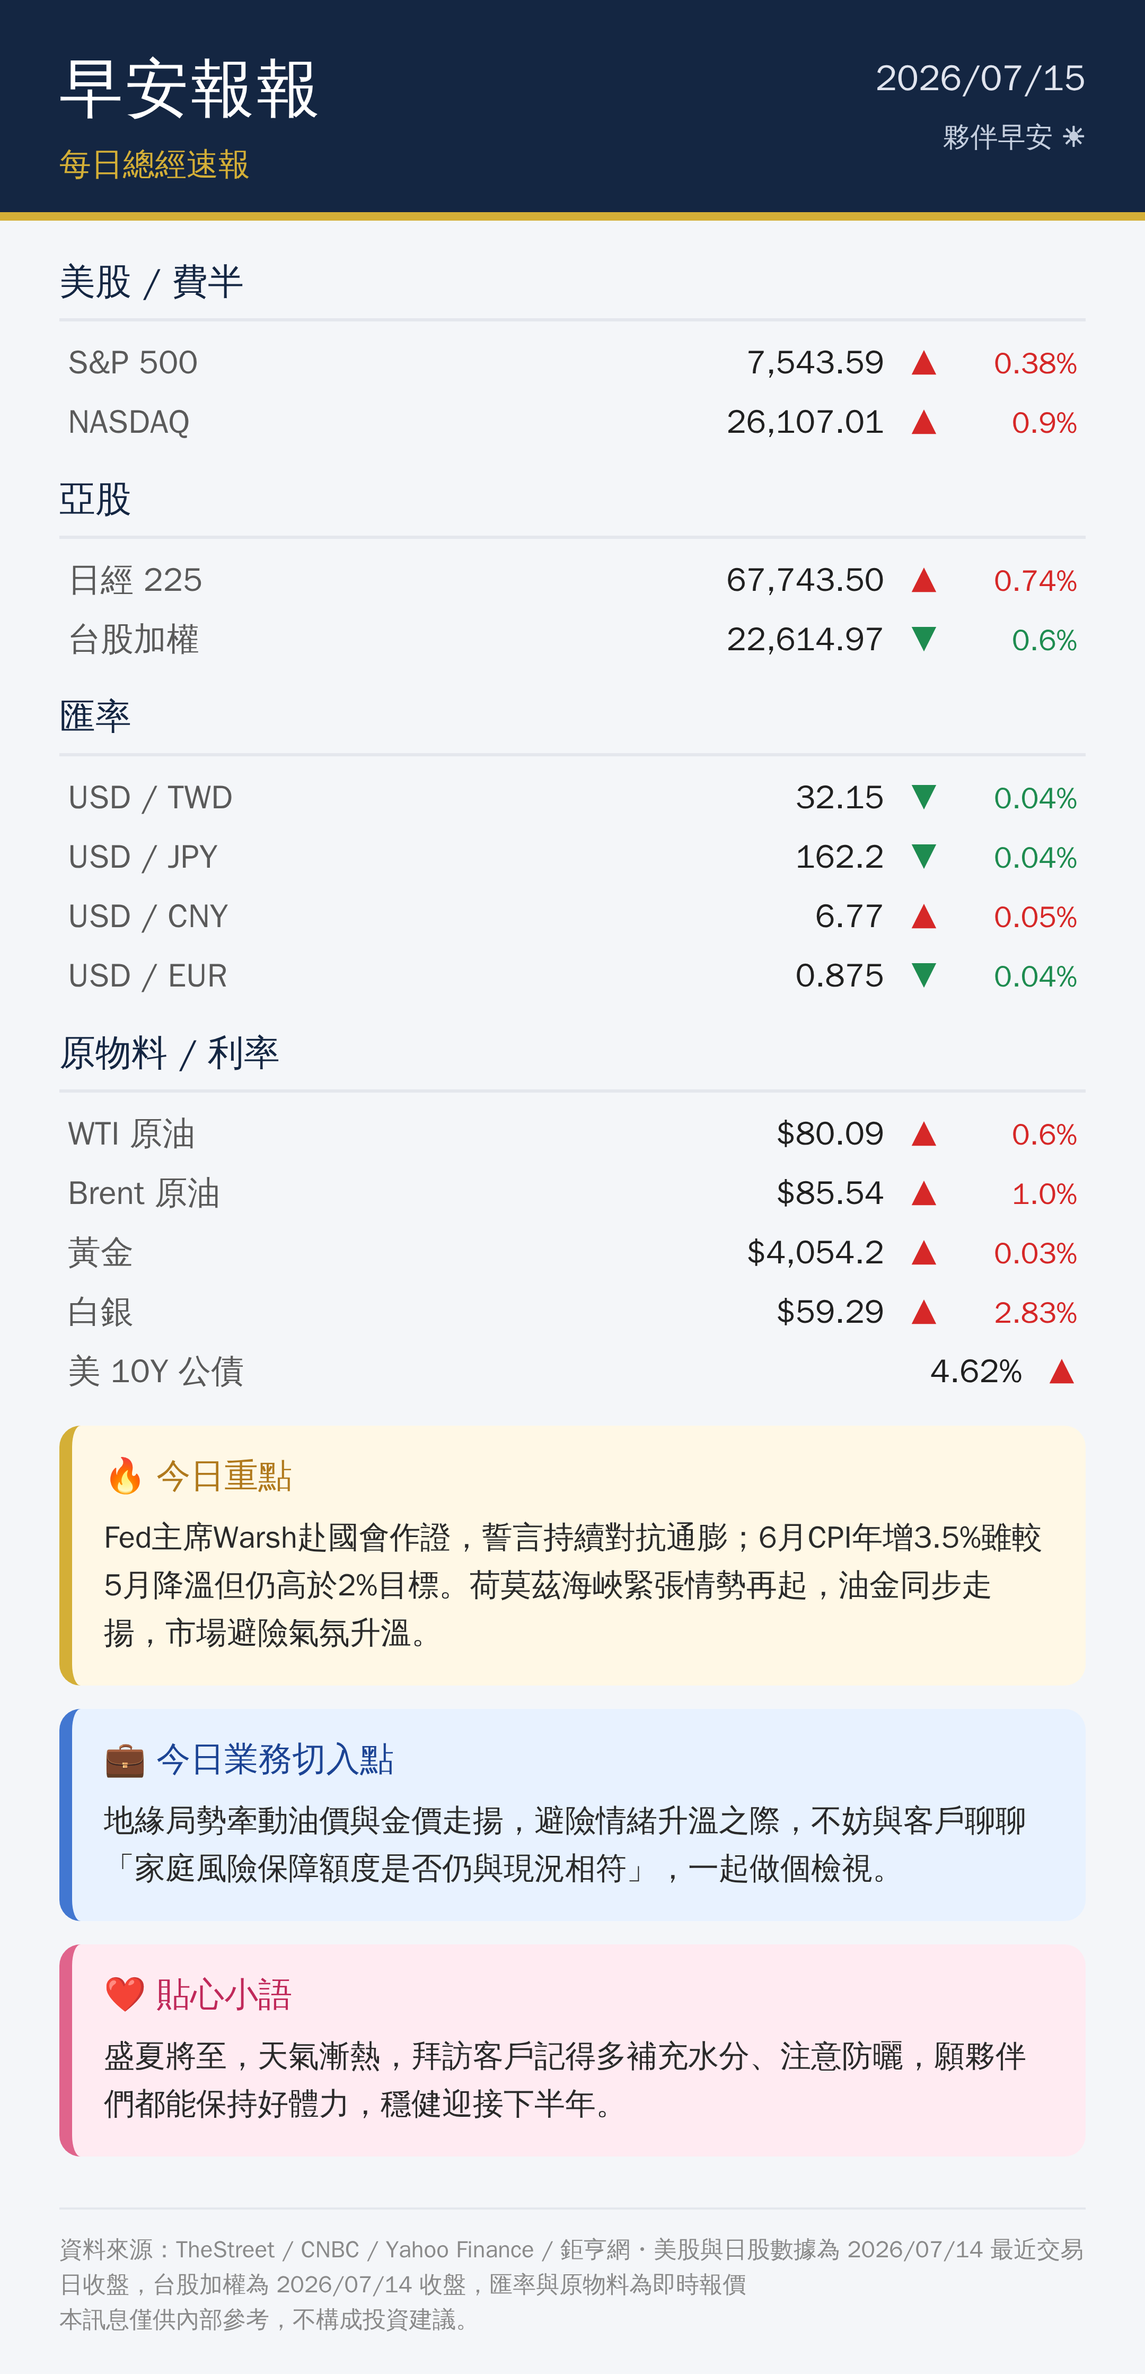
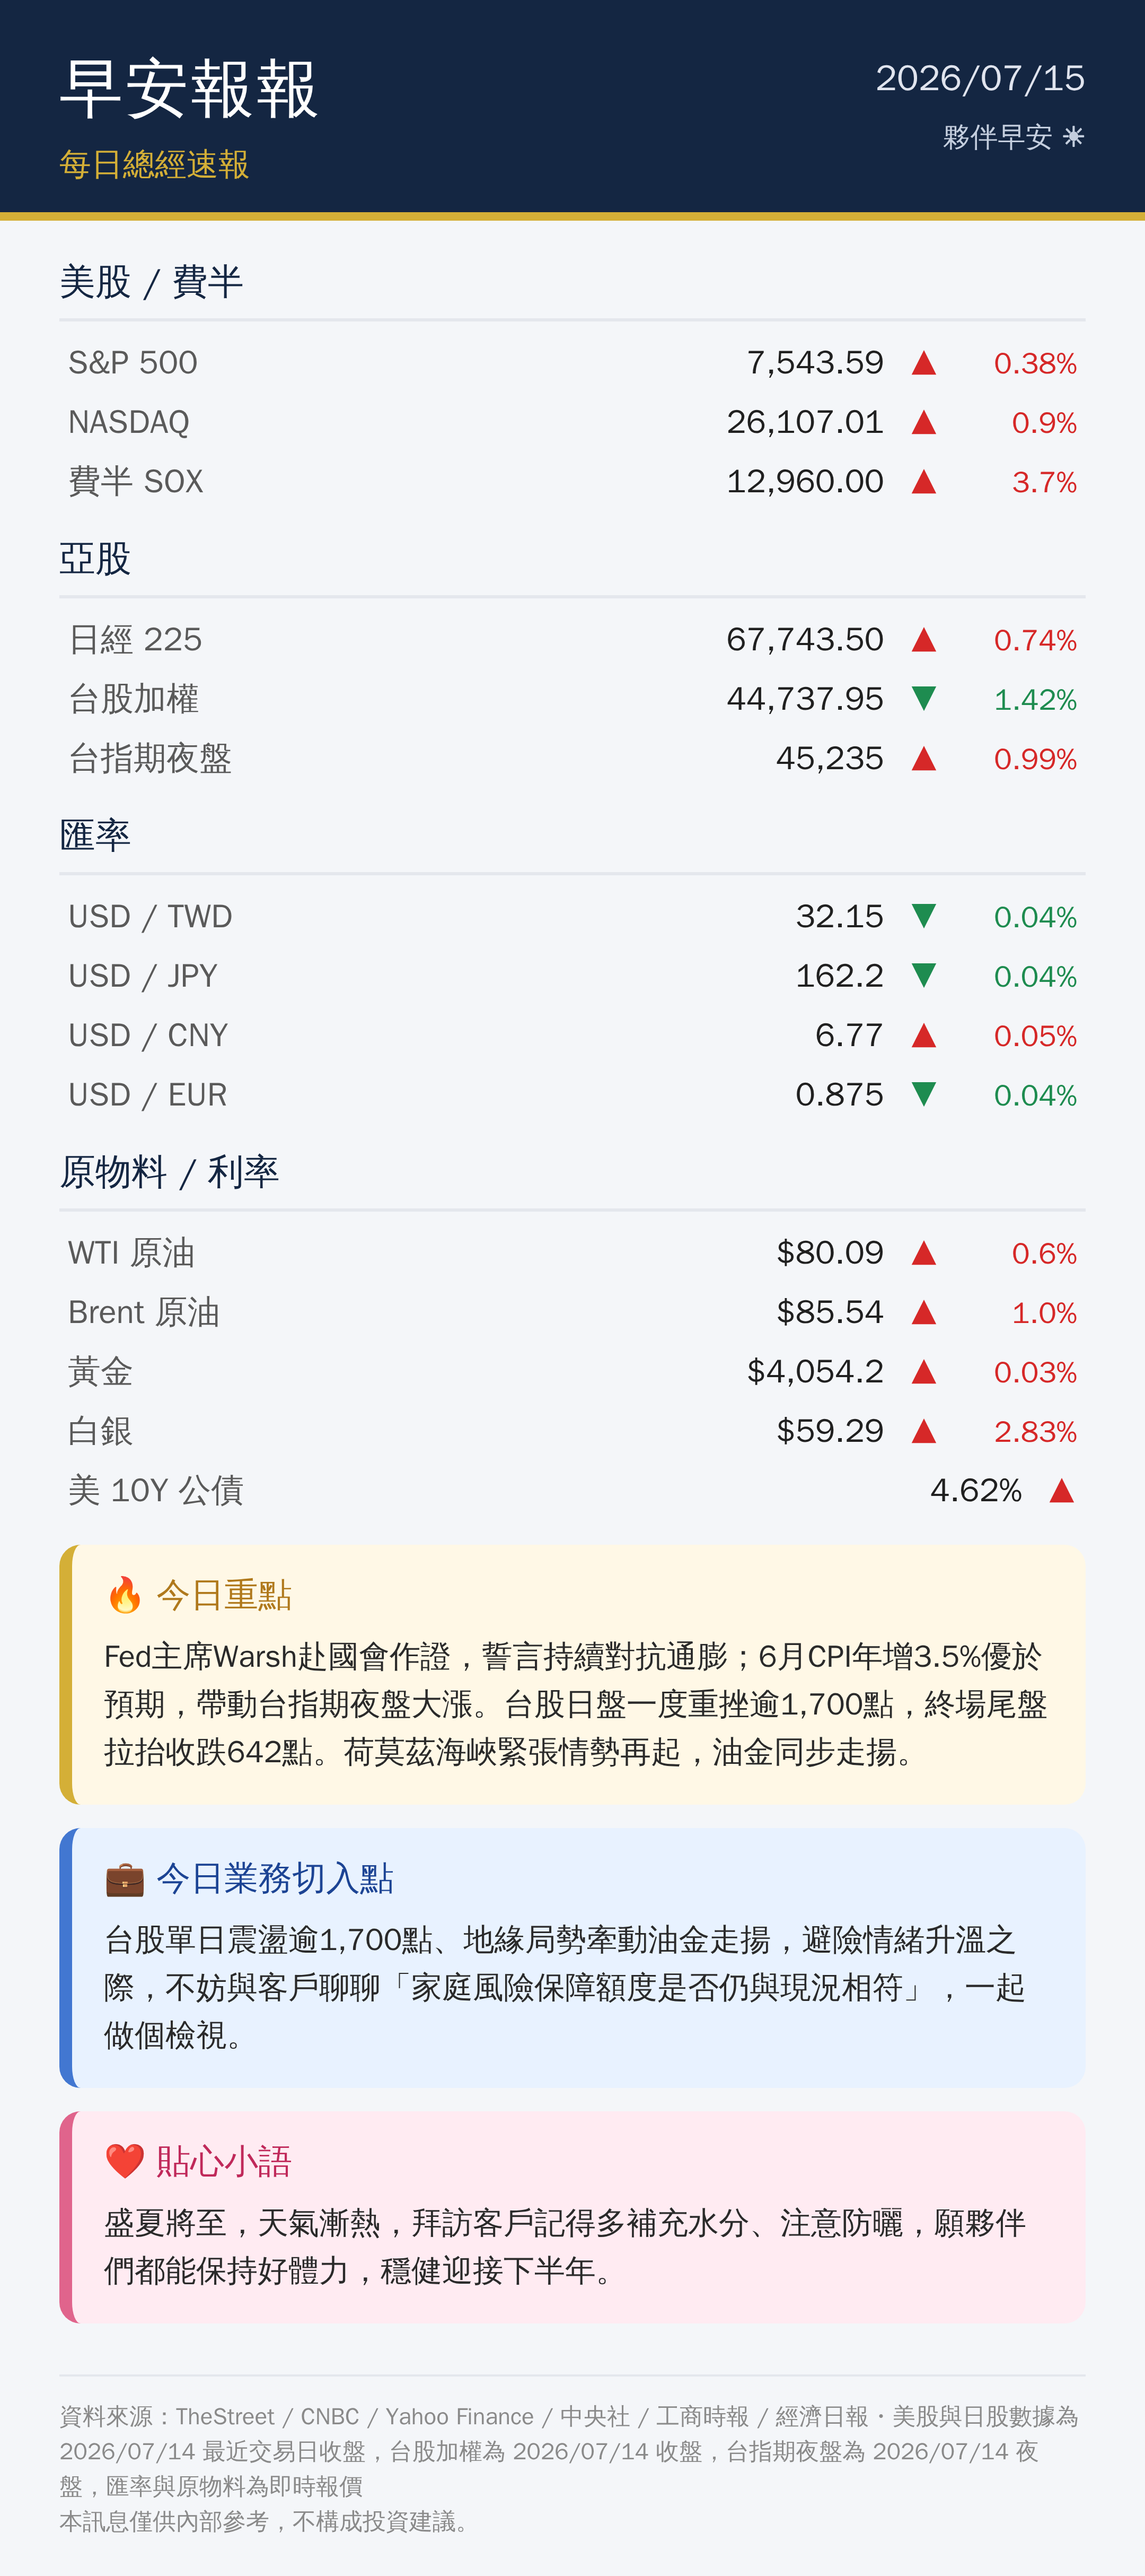
Fix 2026-07-15 report: correct TAIEX close, add SOX and night session (#14)
* Daily macro report 2026-07-15

* Fix 2026-07-15 report: correct TAIEX close, add SOX and night session

---------

diff --git a/reports/2026-07-15/card.html b/reports/2026-07-15/card.html
@@ -43,6 +43,6 @@
     <div class="brand-sub">每日總經速報</div>
     <div class="hdr-right"><div class="hdr-date">2026/07/15</div><div class="hdr-hi">夥伴早安 ☀</div></div>
   </div>
-  <div class="body"><div class="sec"><div class="sec-title">美股 / 費半</div><div class="row"><span class="label">S&amp;P 500</span><span class="val">7,543.59</span><span class="arr" style="color:#d62828">▲</span><span class="pct" style="color:#d62828">0.38%</span></div><div class="row"><span class="label">NASDAQ</span><span class="val">26,107.01</span><span class="arr" style="color:#d62828">▲</span><span class="pct" style="color:#d62828">0.9%</span></div></div><div class="sec"><div class="sec-title">亞股</div><div class="row"><span class="label">日經 225</span><span class="val">67,743.50</span><span class="arr" style="color:#d62828">▲</span><span class="pct" style="color:#d62828">0.74%</span></div><div class="row"><span class="label">台股加權</span><span class="val">22,614.97</span><span class="arr" style="color:#1e8c50">▼</span><span class="pct" style="color:#1e8c50">0.6%</span></div></div><div class="sec"><div class="sec-title">匯率</div><div class="row"><span class="label">USD / TWD</span><span class="val">32.15</span><span class="arr" style="color:#1e8c50">▼</span><span class="pct" style="color:#1e8c50">0.04%</span></div><div class="row"><span class="label">USD / JPY</span><span class="val">162.2</span><span class="arr" style="color:#1e8c50">▼</span><span class="pct" style="color:#1e8c50">0.04%</span></div><div class="row"><span class="label">USD / CNY</span><span class="val">6.77</span><span class="arr" style="color:#d62828">▲</span><span class="pct" style="color:#d62828">0.05%</span></div><div class="row"><span class="label">USD / EUR</span><span class="val">0.875</span><span class="arr" style="color:#1e8c50">▼</span><span class="pct" style="color:#1e8c50">0.04%</span></div></div><div class="sec"><div class="sec-title">原物料 / 利率</div><div class="row"><span class="label">WTI 原油</span><span class="val">$80.09</span><span class="arr" style="color:#d62828">▲</span><span class="pct" style="color:#d62828">0.6%</span></div><div class="row"><span class="label">Brent 原油</span><span class="val">$85.54</span><span class="arr" style="color:#d62828">▲</span><span class="pct" style="color:#d62828">1.0%</span></div><div class="row"><span class="label">黃金</span><span class="val">$4,054.2</span><span class="arr" style="color:#d62828">▲</span><span class="pct" style="color:#d62828">0.03%</span></div><div class="row"><span class="label">白銀</span><span class="val">$59.29</span><span class="arr" style="color:#d62828">▲</span><span class="pct" style="color:#d62828">2.83%</span></div><div class="row"><span class="label">美 10Y 公債</span><span class="val">4.62%</span><span class="arr" style="color:#d62828">▲</span></div></div><div class="box box-gold"><div class="box-title">🔥 今日重點</div><div class="box-body">Fed主席Warsh赴國會作證，誓言持續對抗通膨；6月CPI年增3.5%雖較5月降溫但仍高於2%目標。荷莫茲海峽緊張情勢再起，油金同步走揚，市場避險氣氛升溫。</div></div><div class="box box-blue"><div class="box-title">💼 今日業務切入點</div><div class="box-body">地緣局勢牽動油價與金價走揚，避險情緒升溫之際，不妨與客戶聊聊「家庭風險保障額度是否仍與現況相符」，一起做個檢視。</div></div><div class="box box-pink"><div class="box-title">❤ 貼心小語</div><div class="box-body">盛夏將至，天氣漸熱，拜訪客戶記得多補充水分、注意防曬，願夥伴們都能保持好體力，穩健迎接下半年。</div></div></div>
-  <div class="foot">資料來源：TheStreet / CNBC / Yahoo Finance / 鉅亨網・美股與日股數據為 2026/07/14 最近交易日收盤，台股加權為 2026/07/14 收盤，匯率與原物料為即時報價<br>本訊息僅供內部參考，不構成投資建議。</div>
+  <div class="body"><div class="sec"><div class="sec-title">美股 / 費半</div><div class="row"><span class="label">S&amp;P 500</span><span class="val">7,543.59</span><span class="arr" style="color:#d62828">▲</span><span class="pct" style="color:#d62828">0.38%</span></div><div class="row"><span class="label">NASDAQ</span><span class="val">26,107.01</span><span class="arr" style="color:#d62828">▲</span><span class="pct" style="color:#d62828">0.9%</span></div><div class="row"><span class="label">費半 SOX</span><span class="val">12,960.00</span><span class="arr" style="color:#d62828">▲</span><span class="pct" style="color:#d62828">3.7%</span></div></div><div class="sec"><div class="sec-title">亞股</div><div class="row"><span class="label">日經 225</span><span class="val">67,743.50</span><span class="arr" style="color:#d62828">▲</span><span class="pct" style="color:#d62828">0.74%</span></div><div class="row"><span class="label">台股加權</span><span class="val">44,737.95</span><span class="arr" style="color:#1e8c50">▼</span><span class="pct" style="color:#1e8c50">1.42%</span></div><div class="row"><span class="label">台指期夜盤</span><span class="val">45,235</span><span class="arr" style="color:#d62828">▲</span><span class="pct" style="color:#d62828">0.99%</span></div></div><div class="sec"><div class="sec-title">匯率</div><div class="row"><span class="label">USD / TWD</span><span class="val">32.15</span><span class="arr" style="color:#1e8c50">▼</span><span class="pct" style="color:#1e8c50">0.04%</span></div><div class="row"><span class="label">USD / JPY</span><span class="val">162.2</span><span class="arr" style="color:#1e8c50">▼</span><span class="pct" style="color:#1e8c50">0.04%</span></div><div class="row"><span class="label">USD / CNY</span><span class="val">6.77</span><span class="arr" style="color:#d62828">▲</span><span class="pct" style="color:#d62828">0.05%</span></div><div class="row"><span class="label">USD / EUR</span><span class="val">0.875</span><span class="arr" style="color:#1e8c50">▼</span><span class="pct" style="color:#1e8c50">0.04%</span></div></div><div class="sec"><div class="sec-title">原物料 / 利率</div><div class="row"><span class="label">WTI 原油</span><span class="val">$80.09</span><span class="arr" style="color:#d62828">▲</span><span class="pct" style="color:#d62828">0.6%</span></div><div class="row"><span class="label">Brent 原油</span><span class="val">$85.54</span><span class="arr" style="color:#d62828">▲</span><span class="pct" style="color:#d62828">1.0%</span></div><div class="row"><span class="label">黃金</span><span class="val">$4,054.2</span><span class="arr" style="color:#d62828">▲</span><span class="pct" style="color:#d62828">0.03%</span></div><div class="row"><span class="label">白銀</span><span class="val">$59.29</span><span class="arr" style="color:#d62828">▲</span><span class="pct" style="color:#d62828">2.83%</span></div><div class="row"><span class="label">美 10Y 公債</span><span class="val">4.62%</span><span class="arr" style="color:#d62828">▲</span></div></div><div class="box box-gold"><div class="box-title">🔥 今日重點</div><div class="box-body">Fed主席Warsh赴國會作證，誓言持續對抗通膨；6月CPI年增3.5%優於預期，帶動台指期夜盤大漲。台股日盤一度重挫逾1,700點，終場尾盤拉抬收跌642點。荷莫茲海峽緊張情勢再起，油金同步走揚。</div></div><div class="box box-blue"><div class="box-title">💼 今日業務切入點</div><div class="box-body">台股單日震盪逾1,700點、地緣局勢牽動油金走揚，避險情緒升溫之際，不妨與客戶聊聊「家庭風險保障額度是否仍與現況相符」，一起做個檢視。</div></div><div class="box box-pink"><div class="box-title">❤ 貼心小語</div><div class="box-body">盛夏將至，天氣漸熱，拜訪客戶記得多補充水分、注意防曬，願夥伴們都能保持好體力，穩健迎接下半年。</div></div></div>
+  <div class="foot">資料來源：TheStreet / CNBC / Yahoo Finance / 中央社 / 工商時報 / 經濟日報・美股與日股數據為 2026/07/14 最近交易日收盤，台股加權為 2026/07/14 收盤，台指期夜盤為 2026/07/14 夜盤，匯率與原物料為即時報價<br>本訊息僅供內部參考，不構成投資建議。</div>
 </div></body></html>
